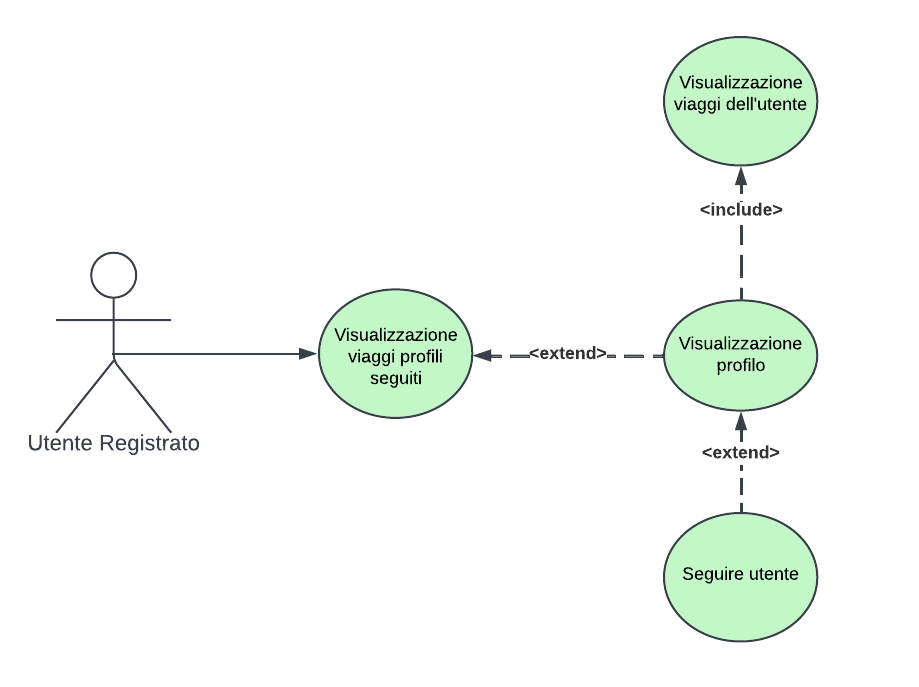
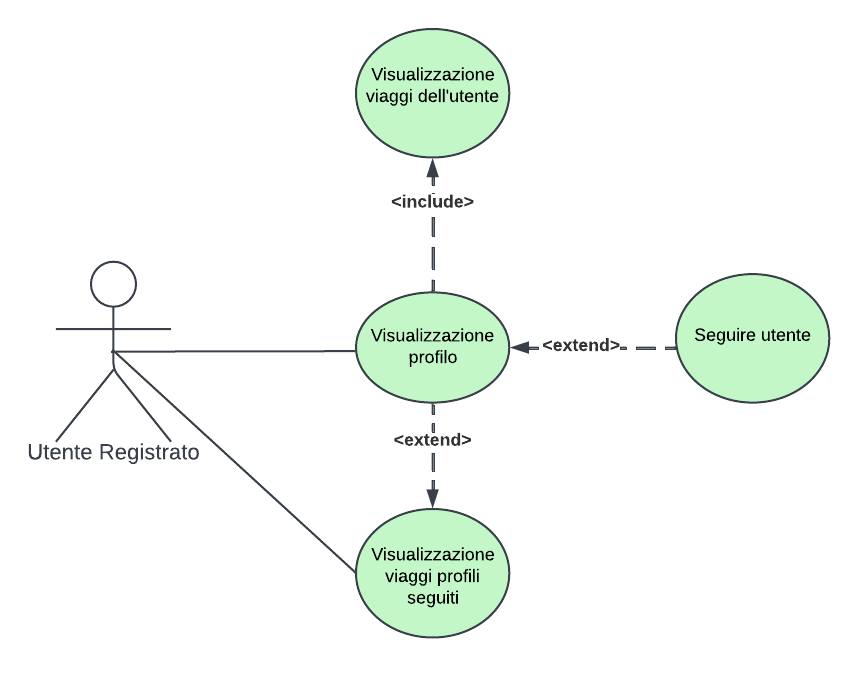
Added Visualizzazione profili Use case

diff --git a/D2/SpecificaDeiRequisiti.md b/D2/SpecificaDeiRequisiti.md
@@ -6,11 +6,36 @@
 
 
 ##  <ins> **Use Cases** </ins>
-## **1. Pubblicazione contenuti**
+
+## **1. Visualizzazione Profilo**
+![alt text](VisualizzazioneProfilo.png "Use Case Diagram")
+
+**Titolo** 
+Visualizzazione Profilo.
+
+**Riassunto**
+Questo use case descrive come avviene la visualizzazione del profilo di un altro utente.
+
+**Descrizione**
+1.	L’Utente può accedere alla funzione di visualizzazione profilo in diversi modi:
+    1.	Mentre visualizza i viaggi ricercati (cfr….) cliccando sull’username del proprietario;
+    2.	Mentre visualizza i viaggi consigliati (cfr…) cliccando sull’username del proprietario;
+    3.	Mentre visualizza i viaggi dei profili seguiti (cfr…) cliccando sull’username del proprietario;
+    4.	Quando cerca i profili  degli utenti registrati (cfr..) cliccando su uno degli username dei risultati.
+
+
+2.	Una volta che l’utente ha selezionato il bottone per visualizzare il profilo il sito mostra la foto dell’utente selezionato, lo username ed i viaggi pubblicati. [EXTENSION 1].
+
+**Extensions**
+1.	Se il profilo visualizzato è un profilo seguito dall’utente, viene visualizzata anche questa informazione.
+
+
+
+## **2. Pubblicazione contenuti**
 ![alt text](PubblicazioneContenuti2.png "Use Case Diagram")
 
 **Titolo** 
-Pubblicazione contenuti
+Pubblicazione contenuti.
 
 **Riassunto**
 Questo use case descrive come avviene la pubblicazione di un contenuto da parte di un utente registrato.
@@ -21,7 +46,7 @@ Questo use case descrive come avviene la pubblicazione di un contenuto da parte 
 2.	Il sito mostra 4 Sezioni:
     1. Aggiunta titolo;
     2. Aggiunta descrizione generale;
-    3. Selezione tappe;Titolo: Pubblicazione contenuti
+    3. Selezione tappe;
     4. Mappa delle tappe.
 
 3.	L’utente inserisce il nome del titolo del viaggio che sta creando [EXCEPTION 1].
@@ -30,7 +55,6 @@ Questo use case descrive come avviene la pubblicazione di un contenuto da parte 
     1.	Sceglie la posizione (tramite API Google Maps), ciò comporta la creazione di una nuova tappa;
     2.	Aggiunge una foto (opzionale);
     3.	Aggiunge una descrizione (opzionale) [EXCEPTION 3].
-
 
 5.	Terminata la creazione delle tappe l’utente conferma la creazione e pubblicazione del viaggio tramite apposito bottone.
 
@@ -44,7 +68,7 @@ Questo use case descrive come avviene la pubblicazione di un contenuto da parte 
 ![alt text](PubblicazioneContenuti.png "Use case Activity Diagram")
 
 
-## **2. Visualizzazione viaggi profili seguiti**
+## **3. Visualizzazione viaggi profili seguiti**
 ![alt text](VisualizzazioneViaggiSeguiti.png "Use case Diagram")
 
 **Titolo**
@@ -62,7 +86,29 @@ II.	Visualizzare tutti i viaggi di un utente che segue [EXTENSION 2].
 
 Extensions
 1.	La preview comprende:
-    a.	Titolo viaggio
-    b.	Nome utente che l’ha pubblicata
-    c.	Descrizione (se presente) 
+    a.	Titolo viaggio;
+    b.	Nome utente che l’ha pubblicata;
+    c.	Descrizione (se presente).
 2.	Per visualizzare i viaggi di un utente nella parte superiore della pagina “Seguiti” ci sono le foto degli utenti seguiti, cliccandone una si accede alla funzione “Visualizzazione profilo” descritta nello Use case XXXXX.
+
+## **4. Ricerca utenti registrati**
+![alt text](RicercaProfili.png "Use case Diagram")
+
+**Titolo**
+Ricerca utenti registrati.
+
+**Riassunto**
+Questo use case descrive in che modo l’utente registrato può ricercare e visualizzare gli altri utenti registrati. 
+
+**Descrizione**
+1.	L’utente registrato accede alla pagina del sito “Seguiti”.
+2.	Il sito mostra nella pagina una lista con le foto profilo degli utenti che segue ed una foto
+con una “+”.
+3.	L’utente clicca sulla “+”.
+4.	Il sito mostra una tendina con una barra di ricerca.
+5.	L’utente inserisce una stringa per ricercare l’username voluto e clicca sul tasto cerca.
+6.	Il sito cerca e mostra gli username 5 utenti pertinenti [EXTENSION 1].
+7.	L’utente può visualizzare il profilo cliccando sull’username (CFR “Visualizzazione Profilo”).
+
+Extensions
+1.	In caso la ricerca non producesse risultati pertinenti il sito mostra il seguente messaggio di errore: “Nessun risultato”.
